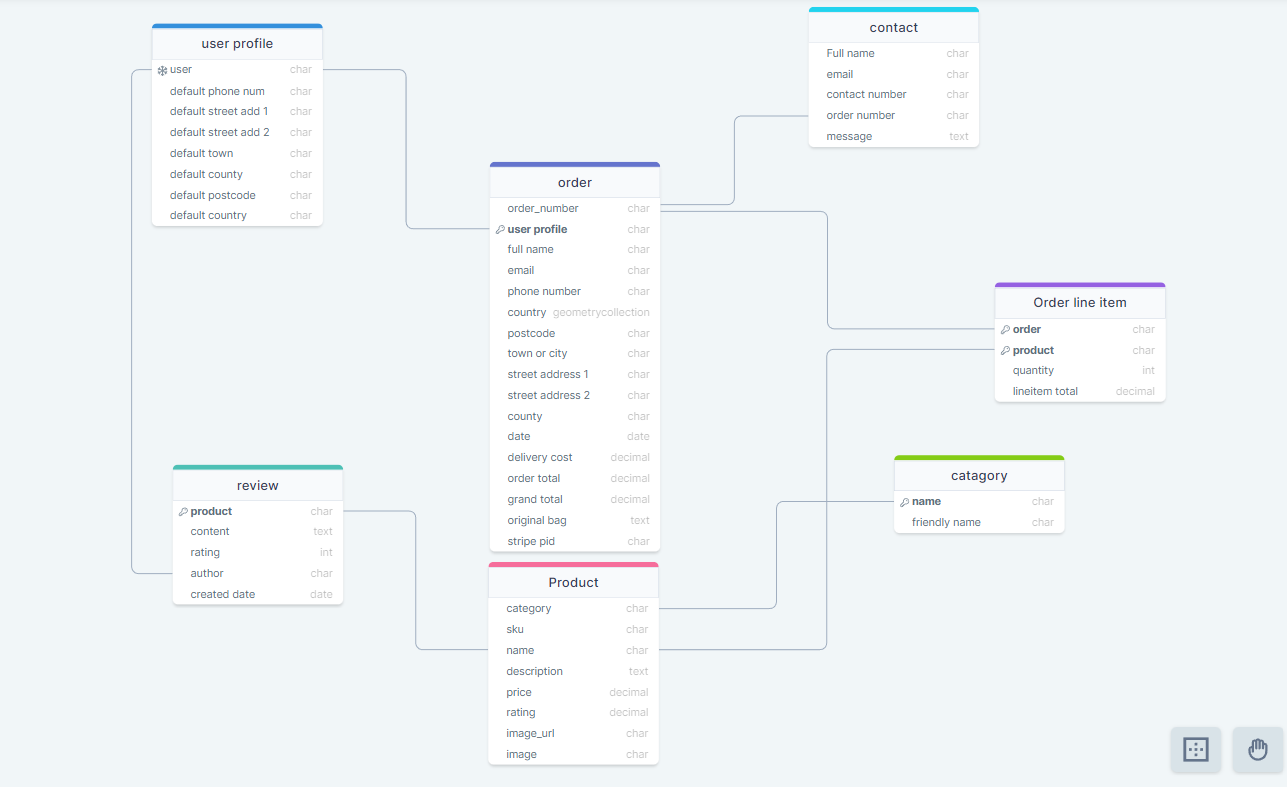
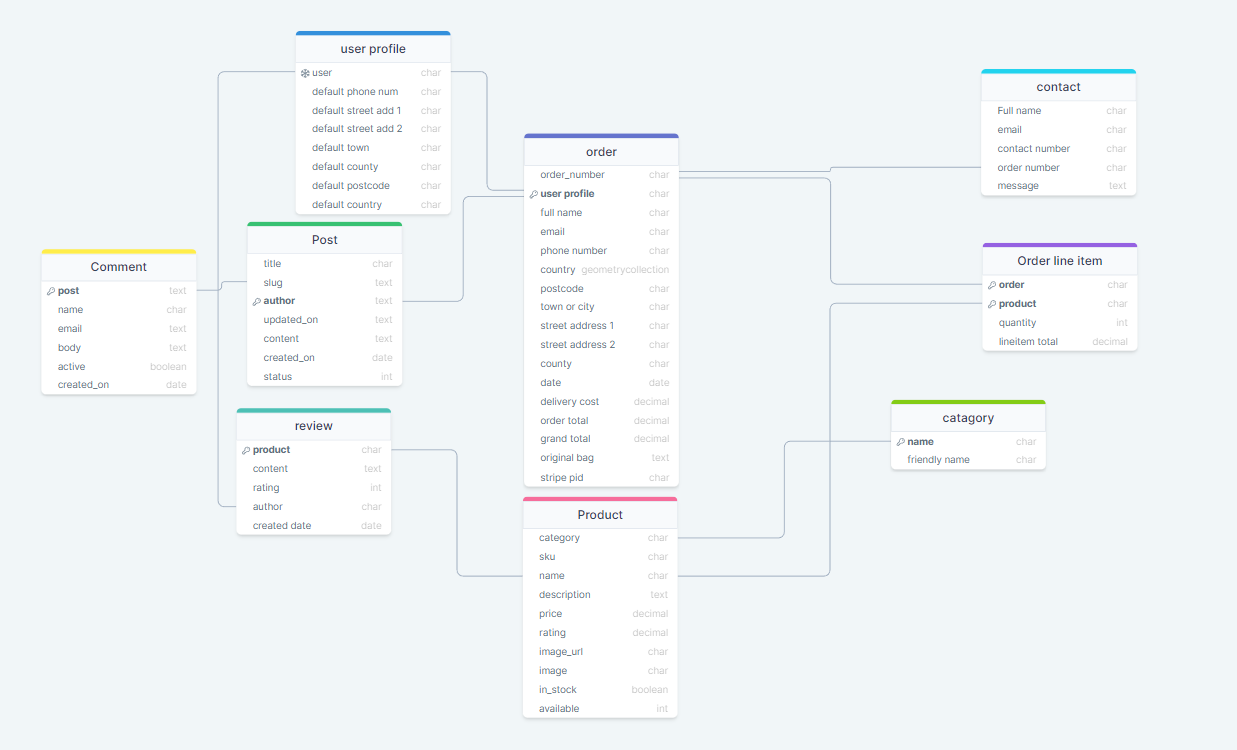
readme updated to include new additions

diff --git a/README.md b/README.md
@@ -392,9 +392,13 @@ All links have a nice hover effect for better UI/UX.
 - Keep Shopping Button.
 - Reviews.
 
+- (Added after inital submission) Stock count and associated logic
+
 ![Product Detail Page](documentation/README/Smart-Solutions-product-detail.png)
 
 The listed product reviews will appear just below the item. Just below that, if the user is authenicated the ability to add their own review is present. I would like to make this look much cleaner but with the deadline looming i have settled with basic functionality for now!
+
+The stock count function will display a green, orange or red stock level based on how close the item is to running out, with green being well stocked and red being out of stock. 
 
 ![Review Form](documentation/README/Smart-Solutions-review-form.png)
 ![Review Form](documentation/README/Smart-Solutions-review-form1.png)
@@ -493,6 +497,31 @@ The form will be filled out except Full Name and card details for security reaso
 ![Checkout Page](documentation/README/Smart-Solutions-checkout3.png)
 
 The items can still be adjusted at this point.
+
+---
+
+- [Back to top ^](#Smart-Solutions)
+
+---
+
+---
+
+# Blog page:
+
+
+
+The blog page will contain blog posts related to installing and using some of the products. The creation of blog posts is restricted to Administrators, with plans to include user creation of posts for admin approval at a later version. 
+
+![Blog Page](documentation/README/Smart-Solutions-blog.png)
+
+
+## Comments section: ~
+
+Upon opening a blog post, a comment section is included to allow users to submit a comment. 
+Each comment must be approved by the admins before being visible on the site. 
+
+![comment Page](documentation/README/Smart-Solutions-comment.png)
+
 
 ---
 
